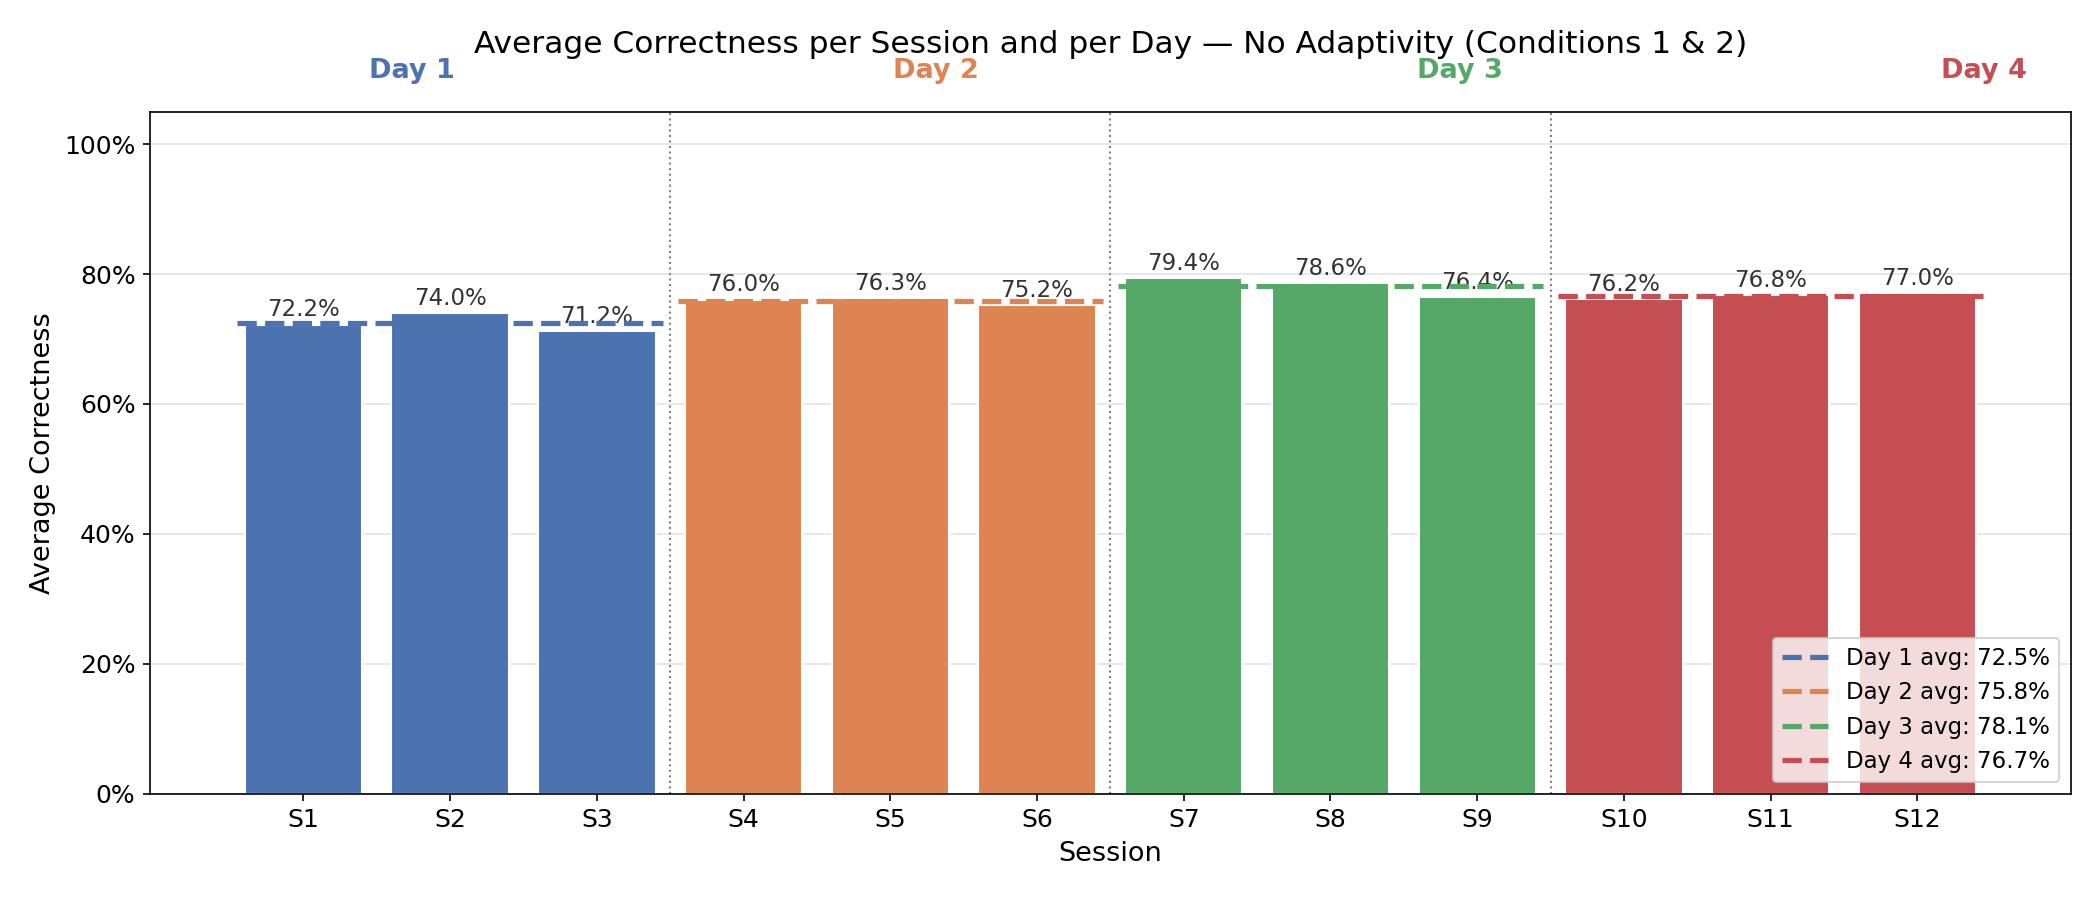
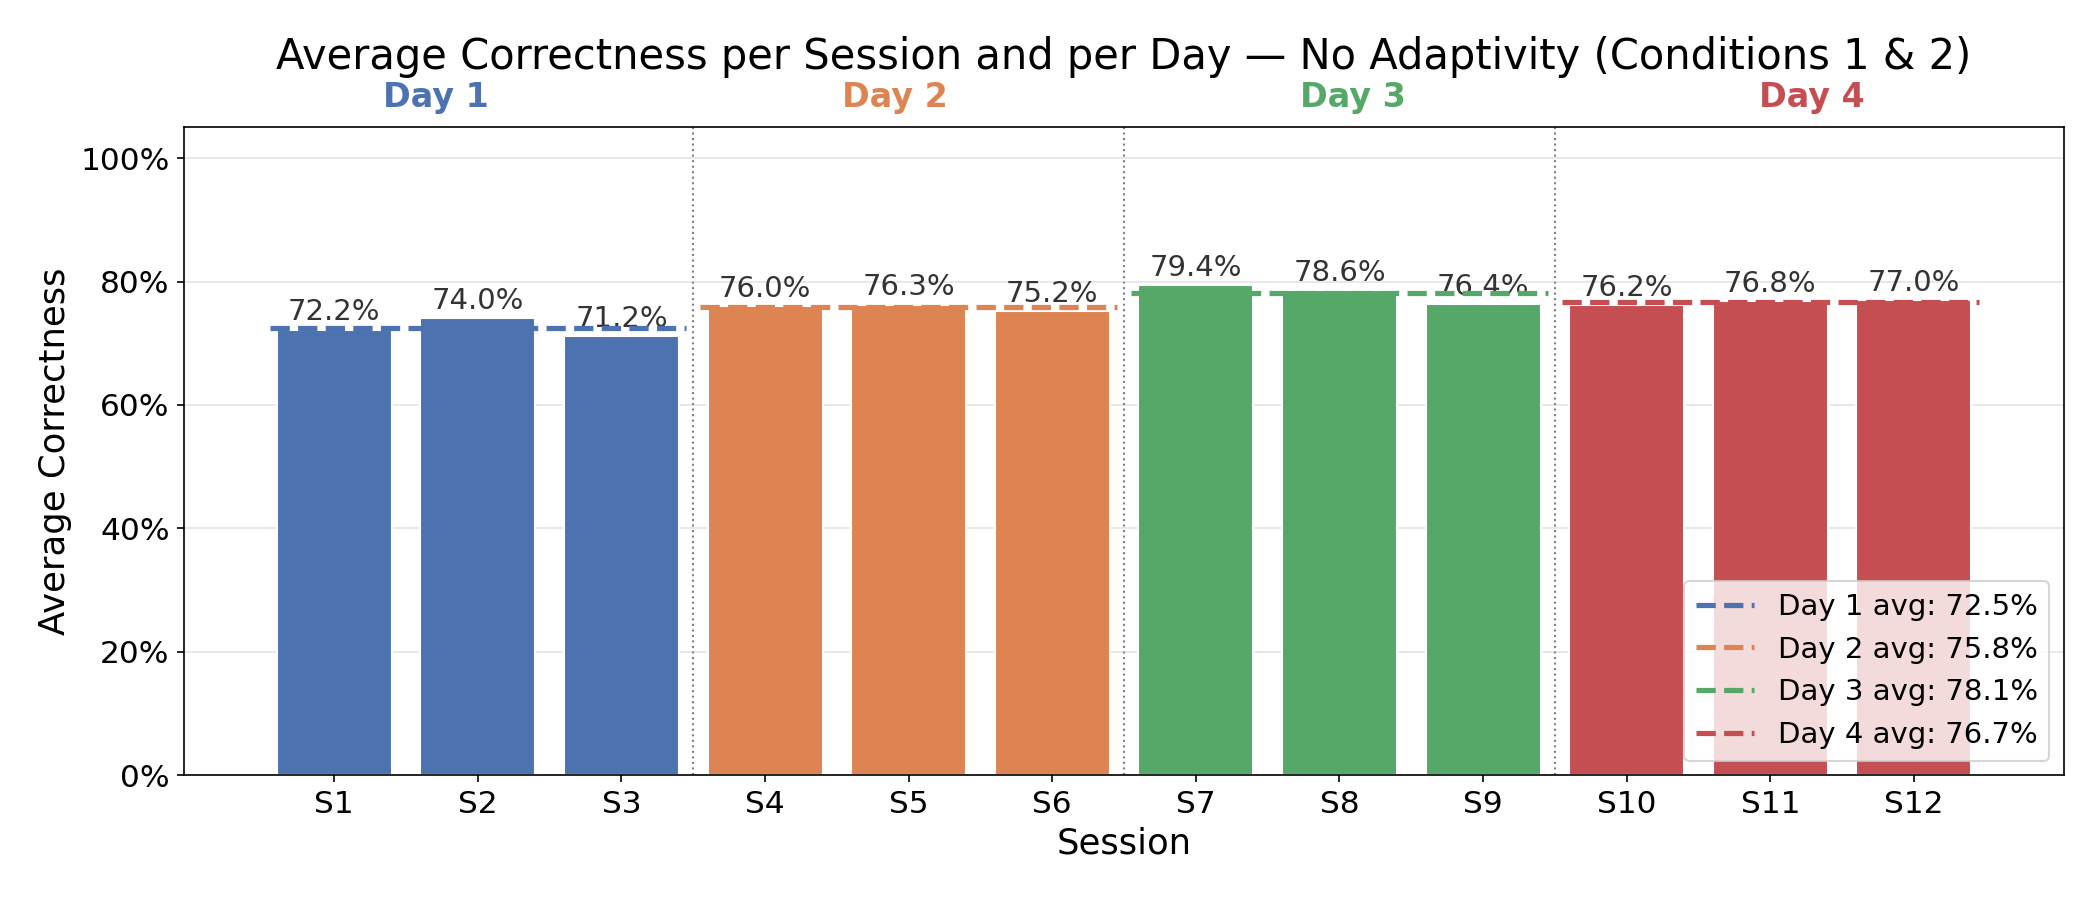
bigger figures

Changed region(s): [[0.0, 0.28, 0.9905, 0.9644], [0.0929, 0.0311, 0.9905, 0.1556], [0.031, 0.1556, 0.0929, 0.1867]]

diff --git a/python/correctness_by_session_masterfile.py b/python/correctness_by_session_masterfile.py
@@ -4,12 +4,12 @@ import numpy as np
 from pathlib import Path
 
 plt.rcParams.update({
-    "font.size": 13,
-    "axes.titlesize": 15,
-    "axes.labelsize": 13,
-    "xtick.labelsize": 12,
-    "ytick.labelsize": 12,
-    "legend.fontsize": 11,
+    "font.size": 16,
+    "axes.titlesize": 20,
+    "axes.labelsize": 17,
+    "xtick.labelsize": 15,
+    "ytick.labelsize": 15,
+    "legend.fontsize": 14,
 })
 
 # ============================================================
@@ -63,13 +63,13 @@ def add_value_labels(ax, bars, values, fmt="{:.1%}"):
                 bar.get_x() + bar.get_width() / 2,
                 val + ax.get_ylim()[1] * 0.005,
                 fmt.format(val),
-                ha="center", va="bottom", fontsize=11, color="#333333",
+                ha="center", va="bottom", fontsize=14, color="#333333",
             )
 
 
 def add_overall_line(ax, overall, color, label):
     ax.axhline(
-        overall, color=color, linewidth=2.5, linestyle="--",
+        overall, color=color, linewidth=1, linestyle="--",
         zorder=3, label=label,
     )
 
@@ -94,7 +94,7 @@ ax.set_title(f"Average Accuracy per Session — Training Day {TRAINING_DAY}", pa
 ax.set_ylim(0, 1.1)
 ax.yaxis.set_major_formatter(plt.FuncFormatter(lambda y, _: f"{y:.0%}"))
 ax.grid(axis="y", alpha=0.35, zorder=0)
-ax.legend(loc="lower right", fontsize=11)
+ax.legend(loc="lower right", fontsize=14)
 plt.tight_layout()
 out = OUTPUT_DIR / f"accuracy_by_session_day{TRAINING_DAY}.png"
 plt.savefig(out, dpi=150)
@@ -117,10 +117,10 @@ for bar, val in zip(bars, session_rt.values):
             bar.get_x() + bar.get_width() / 2,
             val / 1000 + overall_rt / 1000 * 0.005,
             f"{val/1000:.2f}s",
-            ha="center", va="bottom", fontsize=11, color="#333333",
+            ha="center", va="bottom", fontsize=14, color="#333333",
         )
 
-ax.axhline(overall_rt / 1000, color=SESSION_COLOR, linewidth=2.5, linestyle="--",
+ax.axhline(overall_rt / 1000, color=SESSION_COLOR, linewidth=1, linestyle="--",
            zorder=3, label=f"Overall avg: {overall_rt/1000:.2f}s")
 
 ax.set_xticks(SESSIONS)
@@ -129,7 +129,7 @@ ax.set_xlabel("Session")
 ax.set_ylabel("Average Response Time (s)")
 ax.set_title(f"Average Response Time per Session — Training Day {TRAINING_DAY}", pad=14)
 ax.grid(axis="y", alpha=0.35, zorder=0)
-ax.legend(loc="upper right", fontsize=11)
+ax.legend(loc="lower right", fontsize=14)
 plt.tight_layout()
 out = OUTPUT_DIR / f"rt_by_session_day{TRAINING_DAY}.png"
 plt.savefig(out, dpi=150)
@@ -152,10 +152,10 @@ for bar, val in zip(bars, session_rtc.values):
             bar.get_x() + bar.get_width() / 2,
             val / 1000 + overall_rtc / 1000 * 0.005,
             f"{val/1000:.2f}s",
-            ha="center", va="bottom", fontsize=11, color="#333333",
+            ha="center", va="bottom", fontsize=14, color="#333333",
         )
 
-ax.axhline(overall_rtc / 1000, color=SESSION_COLOR, linewidth=2.5, linestyle="--",
+ax.axhline(overall_rtc / 1000, color=SESSION_COLOR, linewidth=1, linestyle="--",
            zorder=3, label=f"Overall avg: {overall_rtc/1000:.2f}s")
 
 ax.set_xticks(SESSIONS)
@@ -164,7 +164,7 @@ ax.set_xlabel("Session")
 ax.set_ylabel("Average Response Time — Correct Trials (s)")
 ax.set_title(f"Average Response Time (Correct Only) per Session — Training Day {TRAINING_DAY}", pad=14)
 ax.grid(axis="y", alpha=0.35, zorder=0)
-ax.legend(loc="upper right", fontsize=11)
+ax.legend(loc="lower right", fontsize=14)
 plt.tight_layout()
 out = OUTPUT_DIR / f"rt_correct_by_session_day{TRAINING_DAY}.png"
 plt.savefig(out, dpi=150)

diff --git a/python/response_time_by_session.py b/python/response_time_by_session.py
@@ -4,12 +4,12 @@ import numpy as np
 from pathlib import Path
 
 plt.rcParams.update({
-    "font.size": 13,
-    "axes.titlesize": 15,
-    "axes.labelsize": 13,
-    "xtick.labelsize": 12,
-    "ytick.labelsize": 12,
-    "legend.fontsize": 11,
+    "font.size": 16,
+    "axes.titlesize": 20,
+    "axes.labelsize": 17,
+    "xtick.labelsize": 15,
+    "ytick.labelsize": 15,
+    "legend.fontsize": 14,
 })
 
 # ============================================================
@@ -89,16 +89,16 @@ def make_figure(csv_files, title, out_filename):
 
     bar_colors = [DAY_COLORS[(s - 1) // SESSIONS_PER_DAY] for s in session_idx]
     bars = ax.bar(session_idx, session_avg.values, color=bar_colors, edgecolor="white", zorder=2)
-
+    
     for bar, val in zip(bars, session_avg.values):
         if not np.isnan(val):
             ax.text(
                 bar.get_x() + bar.get_width() / 2,
                 val + 0.05,
                 f"{val:.1f}s",
-                ha="center", va="bottom", fontsize=11, color="#333333",
+                ha="center", va="bottom", fontsize=14, color="#333333",
             )
-
+    
     for day in range(1, NUM_DAYS + 1):
         first_s = (day - 1) * SESSIONS_PER_DAY + 1
         last_s = day * SESSIONS_PER_DAY
@@ -113,10 +113,10 @@ def make_figure(csv_files, title, out_filename):
                 zorder=3,
                 label=f"Day {day} avg: {avg:.1f}s",
             )
-
+    
     for day in range(1, NUM_DAYS):
         ax.axvline(day * SESSIONS_PER_DAY + 0.5, color="gray", linewidth=1, linestyle=":", zorder=1)
-
+    
     ax.set_xticks(session_idx)
     ax.set_xticklabels([f"S{i}" for i in session_idx])
     ax.set_xlabel("Session")
@@ -127,18 +127,18 @@ def make_figure(csv_files, title, out_filename):
     ax.set_ylim(0, y_max * 1.15)
 
     for day in range(1, NUM_DAYS + 1):
-        mid_x = ((day - 1) * SESSIONS_PER_DAY + (SESSIONS_PER_DAY + 1) / 2 - 0.5) / (TOTAL_SESSIONS - 1)
+        mid_x = ((day - 1) * SESSIONS_PER_DAY + (SESSIONS_PER_DAY + 2.7) / 2 - 1.2) / (TOTAL_SESSIONS + 0.3)
         ax.text(
-            mid_x, 1.04,
+            mid_x, 1.02,
             f"Day {day}",
             ha="center", va="bottom",
-            fontsize=13, fontweight="bold",
+            fontsize=16, fontweight="bold",
             color=DAY_COLORS[day - 1],
             transform=ax.transAxes,
         )
 
     ax.grid(axis="y", alpha=0.35, zorder=0)
-    ax.legend(loc="upper right", fontsize=11)
+    ax.legend(loc="lower right", fontsize=14)
 
     plt.tight_layout()
     out_path = OUTPUT_DIR / out_filename

diff --git a/python/correctness_by_session.py b/python/correctness_by_session.py
@@ -4,12 +4,12 @@ import numpy as np
 from pathlib import Path
 
 plt.rcParams.update({
-    "font.size": 13,
-    "axes.titlesize": 15,
-    "axes.labelsize": 13,
-    "xtick.labelsize": 12,
-    "ytick.labelsize": 12,
-    "legend.fontsize": 11,
+    "font.size": 16,
+    "axes.titlesize": 20,
+    "axes.labelsize": 17,
+    "xtick.labelsize": 15,
+    "ytick.labelsize": 15,
+    "legend.fontsize": 14,
 })
 
 # ============================================================
@@ -93,7 +93,7 @@ def make_figure(csv_files, title, out_filename):
                 bar.get_x() + bar.get_width() / 2,
                 val + 0.005,
                 f"{val:.1%}",
-                ha="center", va="bottom", fontsize=11, color="#333333",
+                ha="center", va="bottom", fontsize=14, color="#333333",
             )
 
     for day in range(1, NUM_DAYS + 1):
@@ -122,19 +122,19 @@ def make_figure(csv_files, title, out_filename):
     ax.set_ylim(0, 1.05)
 
     for day in range(1, NUM_DAYS + 1):
-        mid_x = ((day - 1) * SESSIONS_PER_DAY + (SESSIONS_PER_DAY + 1) / 2 - 0.5) / (TOTAL_SESSIONS - 1)
+        mid_x = ((day - 1) * SESSIONS_PER_DAY + (SESSIONS_PER_DAY + 2.7) / 2 - 1.2) / (TOTAL_SESSIONS + 0.3)
         ax.text(
-            mid_x, 1.04,
+            mid_x, 1.02,
             f"Day {day}",
             ha="center", va="bottom",
-            fontsize=13, fontweight="bold",
+            fontsize=16, fontweight="bold",
             color=DAY_COLORS[day - 1],
             transform=ax.transAxes,
         )
 
     ax.yaxis.set_major_formatter(plt.FuncFormatter(lambda y, _: f"{y:.0%}"))
     ax.grid(axis="y", alpha=0.35, zorder=0)
-    ax.legend(loc="lower right", fontsize=11)
+    ax.legend(loc="lower right", fontsize=14)
 
     plt.tight_layout()
     out_path = OUTPUT_DIR / out_filename

diff --git a/python/accuracy_analysis.py b/python/accuracy_analysis.py
@@ -5,12 +5,12 @@ from pathlib import Path
 from scipy.stats import norm
 
 plt.rcParams.update({
-    "font.size": 13,
-    "axes.titlesize": 15,
-    "axes.labelsize": 13,
-    "xtick.labelsize": 12,
-    "ytick.labelsize": 12,
-    "legend.fontsize": 11,
+    "font.size": 16,
+    "axes.titlesize": 20,
+    "axes.labelsize": 17,
+    "xtick.labelsize": 15,
+    "ytick.labelsize": 15,
+    "legend.fontsize": 14,
 })
 
 # ============================================================

diff --git a/python/ELO.py b/python/ELO.py
@@ -4,12 +4,12 @@ import random
 from pathlib import Path
 
 plt.rcParams.update({
-    "font.size": 13,
-    "axes.titlesize": 15,
-    "axes.labelsize": 13,
-    "xtick.labelsize": 12,
-    "ytick.labelsize": 12,
-    "legend.fontsize": 11,
+    "font.size": 16,
+    "axes.titlesize": 20,
+    "axes.labelsize": 17,
+    "xtick.labelsize": 15,
+    "ytick.labelsize": 15,
+    "legend.fontsize": 14,
 })
 
 # ============================================================
